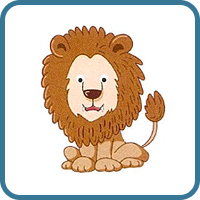
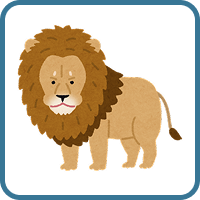
[Feat/#82] 저울 템플릿 관련 이미지 추가 (#85)
* design: 저울 템플릿에서 쓸 객체 카드 추가

* delete: 로그 찍는 코드 삭제

* design: 선택지 카드 이미지 추가

* feat: 객체가 이미지인 경우에도 반영되도록 이미지 배열 추가

* fix: 정답 선택지 로직 숫자에서도 작동하도록 수정

diff --git a/src/features/handTracking/logic/step/useStep2Logic.ts b/src/features/handTracking/logic/step/useStep2Logic.ts
@@ -34,18 +34,33 @@ export const useStep2Logic = ({
   const selectAnswerRef = useRef<number | null>(null);
   const [selectAnswer, setSelectAnswer] = useState<number | null>(null);
 
+  // 정답
+  let choiceAnswer = isNaN(Number(answer)) ? 1 : Number(answer);
+
   const [objects, setObjects] = useState<Obj[]>([]);
   useEffect(() => {
     if (!probImage) return;
 
     // 선택지 추가
+    let count = 1;
     const choiceOptions: number[] = [];
-    choiceOptions.push(Number(answer));
+    choiceOptions.push(choiceAnswer);
     for (const wrong of wrongList) {
-      choiceOptions.push(Number(wrong));
+      count += 1;
+      choiceOptions.push(
+        isNaN(Number(wrong)) ? count : Number(wrong)
+      );
     }
-    setObjects(getStep2ObjectsInfo(probImage, choiceOptions));
-  }, [answer, probImage, wrongList]);
+
+    // 선택지 이미지 추가
+    const choiceImages: string[] = [];
+    choiceImages.push(answer);
+    for (const wrong of wrongList) {
+      choiceImages.push(wrong);
+    }
+
+    setObjects(getStep2ObjectsInfo(probImage, choiceOptions, choiceImages));
+  }, [answer, choiceAnswer, probImage, wrongList]);
 
   const objectsRef = useRef(objects);
 
@@ -79,7 +94,7 @@ export const useStep2Logic = ({
         if (obj.id === "mention") {
           let mention_image = "/asset/check-answer/init-mention.png";
           if (selectAnswer) {
-            if (selectAnswer === Number(answer))
+            if (selectAnswer === choiceAnswer)
               mention_image = "/asset/check-answer/correct-mention.png";
             else mention_image = "/asset/check-answer/incorrect-mention.png";
           }
@@ -93,7 +108,7 @@ export const useStep2Logic = ({
         if (obj.id === "bear") {
           let bear_image = "/asset/check-answer/init-bear.png";
           if (selectAnswer) {
-            if (selectAnswer === Number(answer))
+            if (selectAnswer === choiceAnswer)
               bear_image = "/asset/check-answer/correct-bear.png";
             else bear_image = "/asset/check-answer/incorrect-bear.png";
           }
@@ -107,7 +122,7 @@ export const useStep2Logic = ({
         return obj;
       })
     );
-  }, [answer, selectAnswer, selectAnswerRef]);
+  }, [answer, choiceAnswer, selectAnswer, selectAnswerRef]);
 
   /* Mediapipe 관련 로직 */
   function onResults(results: any) {
@@ -146,7 +161,8 @@ export const useStep2Logic = ({
 /* 1600 x 900을 기준으로 배치 */
 export function getStep2ObjectsInfo(
   prob_image: string,
-  choiceOptions: number[]
+  choiceOptions: number[],
+  choiceImages: string[]
 ): Obj[] {
   const answerInfo: Obj[] = [
     // 정답 맞추기 위한 객체
@@ -239,6 +255,7 @@ export function getStep2ObjectsInfo(
 
   const choices: number[] = choiceOptions;
   choices.sort(); // 오름차순으로 정렬
+  choiceImages.sort() // 오름차순으로 정렬
 
   const start_x = 200;
   let gap = 200;
@@ -249,7 +266,7 @@ export function getStep2ObjectsInfo(
     id: "choice1",
     x: start_x,
     y: 650,
-    src: `/asset/check-answer/card/${choices[0]}.png`,
+    src: `/asset/check-answer/card/${choiceImages[0]}.png`,
     isObj: true, // 객체임
     value: choices[0],
     width: card_width,
@@ -261,7 +278,7 @@ export function getStep2ObjectsInfo(
     id: "choice2",
     x: start_x + gap,
     y: 650,
-    src: `/asset/check-answer/card/${choices[1]}.png`,
+    src: `/asset/check-answer/card/${choiceImages[1]}.png`,
     isObj: true, // 객체임
     value: choices[1],
     width: card_width,
@@ -274,7 +291,7 @@ export function getStep2ObjectsInfo(
       id: "choice3",
       x: start_x + gap + gap,
       y: 650,
-      src: `/asset/check-answer/card/${choices[2]}.png`,
+      src: `/asset/check-answer/card/${choiceImages[2]}.png`,
       isObj: true, // 객체임
       value: choices[2],
       width: card_width,

diff --git a/src/features/handTracking/utils/HandleHandActions.ts b/src/features/handTracking/utils/HandleHandActions.ts
@@ -206,7 +206,6 @@ export const HandleHandActions = (
                   // 정답 맞추기 화면에서 '되돌아가기 버튼'을 누른 경우
                   navigate("/hands-tracker/solve");
                 }
-                console.log(selectedButtonId)
                 selectedButtonId = null;
               }
             }
